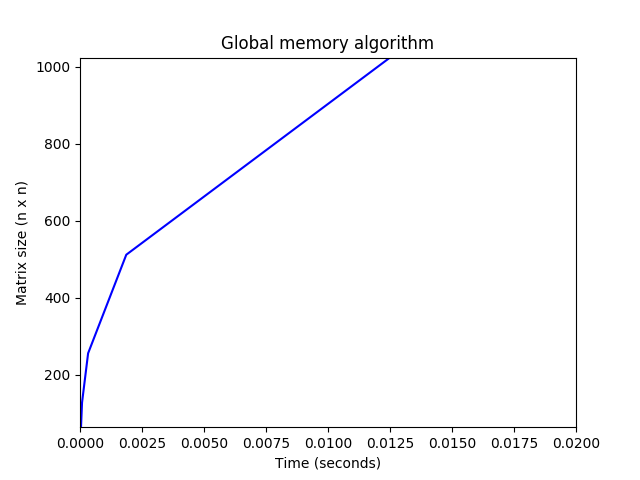
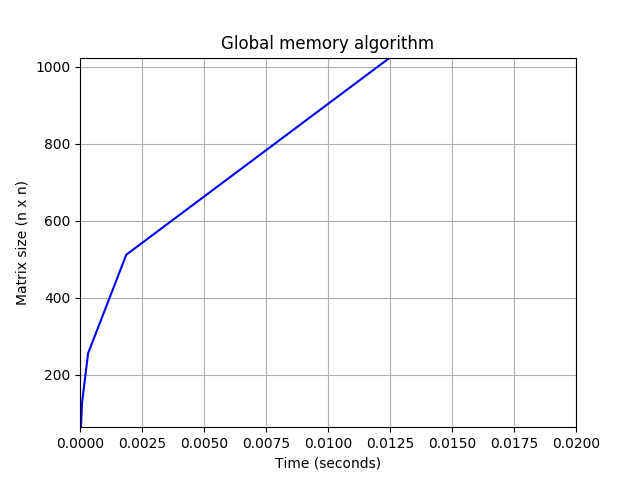
markdown doc

diff --git a/parcial2/segunda_parte/plotting.py b/parcial2/segunda_parte/plotting.py
@@ -26,6 +26,7 @@ fig1 = plt.gcf()
 secExeTime = [ans64[1], ans128[1], ans256[1], ans512[1], ans1024[1]]
 print secExeTime
 plt.axis([0.000000, 5, 64, 1024])
+plt.grid(True)
 plt.title('Secuential algorithm')
 plt.xlabel('Time (seconds)')
 plt.ylabel('Matrix size (n x n)')
@@ -37,6 +38,7 @@ fig2 = plt.gcf()
 globalExeTime = [ans64[2], ans128[2], ans256[2], ans512[2], ans1024[2]]
 print globalExeTime
 plt.axis([0.000, 0.020, 64, 1024])
+plt.grid(True)
 plt.title('Global memory algorithm')
 plt.xlabel('Time (seconds)')
 plt.ylabel('Matrix size (n x n)')
@@ -47,7 +49,8 @@ fig2.savefig('images/global.png', format="png")
 fig3 = plt.gcf()
 sharedExeTime = [ans64[3], ans128[3], ans256[3], ans512[3], ans1024[3]]
 print sharedExeTime
-plt.axis([0.000, 0.005, 64, 1024])
+plt.axis([0.000, 0.009, 64, 1024])
+plt.grid(True)
 plt.title('Shared memory algorithm')
 plt.xlabel('Time (seconds)')
 plt.ylabel('Matrix size (n x n)')

diff --git a/parcial2/segunda_parte/review.md b/parcial2/segunda_parte/review.md
@@ -1,6 +1,13 @@
 ## Aceleración del algoritmo para multiplicar dos matrices cuadradas
 
 **Algoritmo secuencial**
+<style>
+  .col2 {
+    columns: 2 200px;         /* number of columns and width in pixels*/
+    -webkit-columns: 2 200px; /* chrome, safari */
+    -moz-columns: 2 200px;    /* firefox */
+  }
+<div class="col2">
 ```void sec_matMult(int* A, int* B, int* C, int size){
     for (int i = 0; i < size; i++) {
       for (int j = 0; j < size; j++) {
@@ -13,7 +20,9 @@
     }
   }
 ```
-![](images/secuential.png)
+  ![](images/secuential.png)
+</div>
+</style>
 
 **Usando memoria global**
 ```
